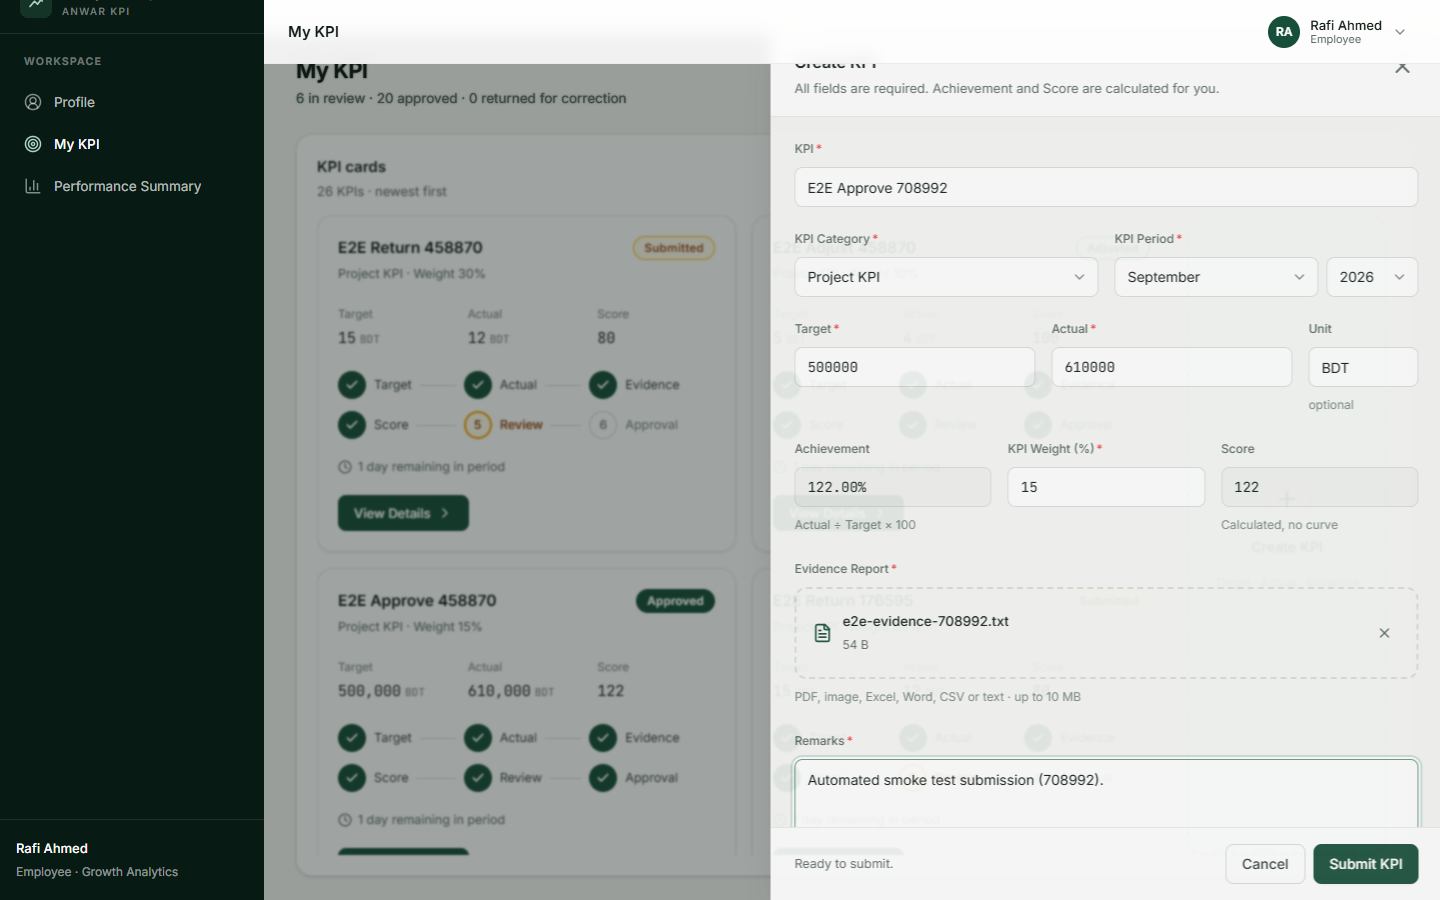
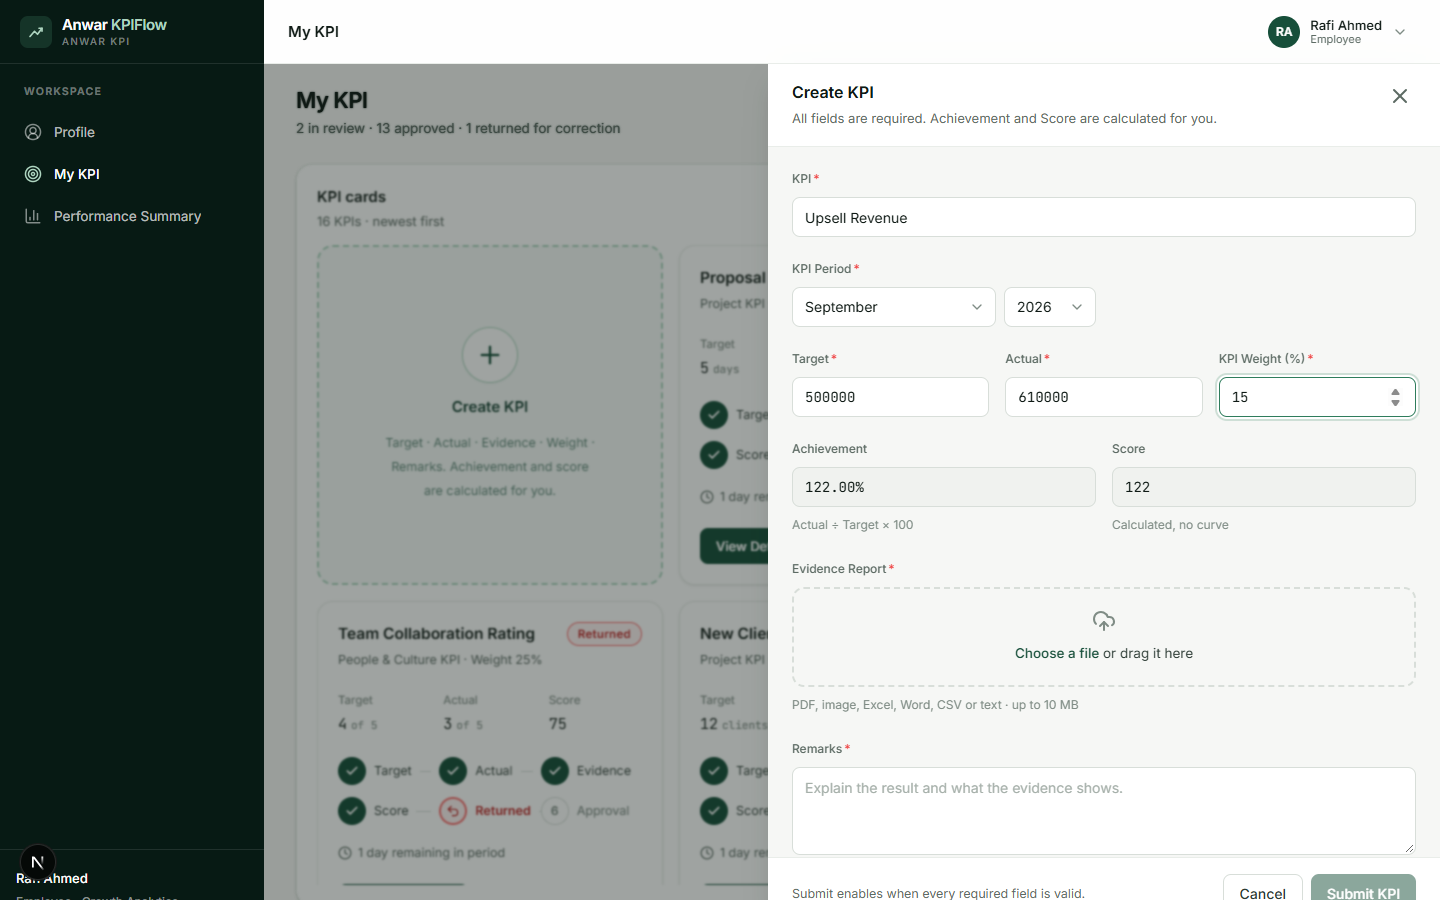
Create KPI form: remove KPI Category and Unit, place KPI Weight beside Actual

diff --git a/anwar-kpiflow/src/components/kpi/kpi-form.tsx b/anwar-kpiflow/src/components/kpi/kpi-form.tsx
@@ -53,12 +53,10 @@ export function KpiFormDrawer({
 
   const now = new Date(Date.now() + 6 * 3600 * 1000);
   const [name, setName] = React.useState(initial?.name ?? "");
-  const [category, setCategory] = React.useState(initial?.category ?? "");
   const [year, setYear] = React.useState(String(initial?.periodYear ?? now.getUTCFullYear()));
   const [month, setMonth] = React.useState(String(initial?.periodMonth ?? now.getUTCMonth() + 1));
   const [target, setTarget] = React.useState(initial ? String(initial.target) : "");
   const [actual, setActual] = React.useState(initial ? String(initial.actual) : "");
-  const [unit, setUnit] = React.useState(initial?.unit ?? "");
   const [weight, setWeight] = React.useState(initial ? String(initial.weight) : "");
   const [remarks, setRemarks] = React.useState(initial?.remarks ?? "");
   const [approverId, setApproverId] = React.useState(initial?.approverId ?? (approvers.length === 1 ? approvers[0].id : ""));
@@ -74,7 +72,6 @@ export function KpiFormDrawer({
   const w = Number(weight);
   const valid =
     name.trim().length >= 2 &&
-    !!category &&
     t > 0 &&
     actual !== "" && a >= 0 &&
     w > 0 && w <= 100 &&
@@ -135,13 +132,6 @@ export function KpiFormDrawer({
         </Field>
 
         <div className="grid sm:grid-cols-2 gap-4">
-          <Field label="KPI Category" htmlFor="category" required error={e.category}>
-            <Select id="category" name="category" value={category} onChange={(ev) => setCategory(ev.target.value)} invalid={!!e.category}>
-              <option value="" disabled>Select category</option>
-              <option value="PROJECT">Project KPI</option>
-              <option value="PEOPLE_CULTURE">People &amp; Culture KPI</option>
-            </Select>
-          </Field>
           <div>
             <span className="label">KPI Period<span className="text-red-500 ml-0.5">*</span></span>
             <div className="grid grid-cols-[1fr_92px] gap-2">
@@ -155,24 +145,21 @@ export function KpiFormDrawer({
           </div>
         </div>
 
-        <div className="grid sm:grid-cols-[1fr_1fr_110px] gap-4">
+        <div className="grid sm:grid-cols-3 gap-4">
           <Field label="Target" htmlFor="target" required error={e.target}>
             <Input id="target" name="target" type="number" inputMode="decimal" step="any" min="0" placeholder="500000" className="font-mono" value={target} onChange={(ev) => setTarget(ev.target.value)} invalid={!!e.target} />
           </Field>
           <Field label="Actual" htmlFor="actual" required error={e.actual}>
             <Input id="actual" name="actual" type="number" inputMode="decimal" step="any" min="0" placeholder="610000" className="font-mono" value={actual} onChange={(ev) => setActual(ev.target.value)} invalid={!!e.actual} />
           </Field>
-          <Field label="Unit" htmlFor="unit" hint="optional">
-            <Input id="unit" name="unit" placeholder="BDT" maxLength={20} value={unit} onChange={(ev) => setUnit(ev.target.value)} />
+          <Field label="KPI Weight (%)" htmlFor="weight" required error={e.weight}>
+            <Input id="weight" name="weight" type="number" inputMode="decimal" step="any" min="0" max="100" placeholder="15" className="font-mono" value={weight} onChange={(ev) => setWeight(ev.target.value)} invalid={!!e.weight} />
           </Field>
         </div>
 
-        <div className="grid sm:grid-cols-3 gap-4">
+        <div className="grid sm:grid-cols-2 gap-4">
           <Field label="Achievement" htmlFor="achievement" hint="Actual ÷ Target × 100">
             <Input id="achievement" readOnly value={ach === null ? "" : fmtPct(ach)} placeholder="—" className="font-mono bg-ink-100/50" tabIndex={-1} />
-          </Field>
-          <Field label="KPI Weight (%)" htmlFor="weight" required error={e.weight}>
-            <Input id="weight" name="weight" type="number" inputMode="decimal" step="any" min="0" max="100" placeholder="15" className="font-mono" value={weight} onChange={(ev) => setWeight(ev.target.value)} invalid={!!e.weight} />
           </Field>
           <Field label="Score" htmlFor="score" hint="Calculated, no curve">
             <Input id="score" readOnly value={score === null ? "" : fmtNum(score)} placeholder="—" className="font-mono bg-ink-100/50" tabIndex={-1} />

diff --git a/anwar-kpiflow/src/actions/kpi.ts b/anwar-kpiflow/src/actions/kpi.ts
@@ -14,7 +14,7 @@ import { flatten, invalid, type ActionState } from "./form";
 
 const kpiSchema = z.object({
   name: z.string().trim().min(2, "KPI name is required."),
-  category: z.enum(["PROJECT", "PEOPLE_CULTURE"], { message: "Select a KPI category." }),
+  category: z.enum(["PROJECT", "PEOPLE_CULTURE"]).optional(),
   periodYear: z.coerce.number().int().min(2020).max(2100),
   periodMonth: z.coerce.number().int().min(1).max(12),
   target: z.coerce.number({ message: "Target must be a number." }).positive("Target must be greater than zero."),
@@ -63,7 +63,7 @@ export async function createKpiAction(_prev: ActionState, formData: FormData): P
   const kpi = await db.kpi.create({
     data: {
       name: d.name,
-      category: d.category,
+      category: d.category ?? "PROJECT",
       periodYear: d.periodYear,
       periodMonth: d.periodMonth,
       target: d.target,
@@ -127,8 +127,8 @@ export async function resubmitKpiAction(_prev: ActionState, formData: FormData):
   const updated = await db.kpi.update({
     where: { id: kpi.id },
     data: {
-      name: d.name, category: d.category, periodYear: d.periodYear, periodMonth: d.periodMonth,
-      target: d.target, actual: d.actual, unit: d.unit, weight: d.weight, remarks: d.remarks,
+      name: d.name, category: d.category ?? kpi.category, periodYear: d.periodYear, periodMonth: d.periodMonth,
+      target: d.target, actual: d.actual, unit: d.unit || kpi.unit, weight: d.weight, remarks: d.remarks,
       approverId: d.approverId, achievement, calculatedScore: score, finalScore: null,
       status: KPI_STATUS.SUBMITTED, returnRemarks: null, decisionReason: null, decidedAt: null,
       submittedAt: new Date(), currentVersion: kpi.currentVersion + 1,
